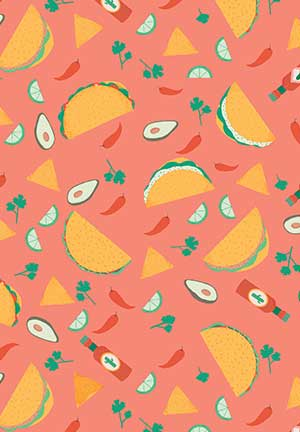
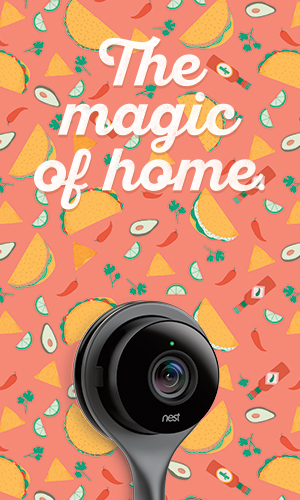
replaced 300x250 with master

diff --git a/300x250/Animation.js b/300x250/Animation.js
@@ -54,23 +54,24 @@ home_animation = (function() {
 		
 	function frame1()
 	{
-		TweenLite.to(first_text, 2.8, {top:-300, delay: 2.2});
-		TweenLite.to(product_text, 2.8, {top:0, delay:2.2});		
-		TweenLite.to(bg, 2.8, {top:-160, delay:2.2});		
+		///TweenLite.to(first_text, 2.8, {top:-300, delay: 2.2});
+		//TweenLite.to(product_text, 2.8, {top:-24, delay:2.2});		
+		TweenLite.to(bg, 1, {top:-252, delay:2.2});		
 
-		TweenLite.delayedCall(3, frame2);
+		TweenLite.delayedCall(1.3, frame2);
 	}
 	
 	function frame2()
 	{
 		// slide up white bg
-		TweenLite.to(white_BG, 1, {top:200, delay:3.2});
-		TweenLite.to(product_text, 1, {top:-33, delay:3.2});		
+		TweenLite.to(bg, 1.3, {top:-283, delay:3.2});	
+		TweenLite.to(white_BG, 1.2, {top:200, delay:3.2});
+	//	TweenLite.to(product_text, 1, {top:-33, delay:3.2});		
 		
-		TweenLite.to(second_text, 1, {opacity:1, delay:4.1});		
-		TweenLite.to(third_text, 1, {opacity:1, delay:4.5});	
+		TweenLite.to(second_text, 3, {opacity:1, delay:4.4, ease: Expo.easeOut});		
+		TweenLite.to(third_text, 3, {opacity:1, delay:6, ease: Expo.easeOut});	
 
-		TweenLite.delayedCall(8, frame3);	
+		TweenLite.delayedCall(8.5, frame3);	
 
 	}
 	
@@ -79,15 +80,15 @@ home_animation = (function() {
 		TweenLite.to(second_text, 0.5, {opacity:0, delay:0});		
 		TweenLite.to(third_text, 0.5, {opacity:0, delay:0});	
 
-		TweenLite.delayedCall(1, frame4);
+		TweenLite.delayedCall(0.8, frame4);
 
 	}
 	
 	function frame4()
 	{
 		endFrame = 1;
-		TweenLite.to(buy_now, 0.5, {opacity:1, delay:0});		
-		TweenLite.to(logo, 0.5, {opacity:1, delay:.2});
+		TweenLite.to(buy_now, 3, {opacity:1, delay:1.2});		
+		TweenLite.to(logo, 3, {opacity:1, delay:0});
 		
 
 	}

diff --git a/300x600/Animation.js b/300x600/Animation.js
@@ -54,33 +54,29 @@ home_animation = (function() {
 		
 	function frame1()
 	{
-		TweenLite.to(first_text, 2.8, {top:-300, delay: 2.2});
-		TweenLite.to(product_text, 2.8, {top:0, delay:2.2});		
+		TweenLite.to(first_text, 2.8, {top:-160, delay: 2.2});
+		TweenLite.to(first_text, 1, {opacity:0, delay: 2.9});
+		TweenLite.to(product_text, 2.8, {top:10, delay:2.2});		
 		TweenLite.to(bg, 2.8, {top:-160, delay:2.2});		
-
+		// slide up white bg
+		TweenLite.to(white_BG, 2.7, {top:432, delay:2.2});
 		TweenLite.delayedCall(3, frame2);
 	}
 	
 	function frame2()
-	{
-		// slide up white bg
-		TweenLite.to(white_BG, 1, {top:432, delay:3.2});
-		TweenLite.to(product_text, 1, {top:-33, delay:3.2});		
-		
-		TweenLite.to(second_text, 1, {opacity:1, delay:4.1});		
-		TweenLite.to(third_text, 1, {opacity:1, delay:4.5});	
-
-		TweenLite.delayedCall(8, frame3);	
+	{	
+		TweenLite.to(logo, 0.5, {opacity:1, delay:1.7});
+		// TweenLite.to(product_text, 1, {top:-33, delay:3.2});
+		TweenLite.to(second_text, 3, {opacity:1, delay:2.1});
+		TweenLite.to(third_text, 3, {opacity:1, delay:3.1});
+		TweenLite.delayedCall(6, frame3);	
 
 	}
 	
 	function frame3()
 	{
 		endFrame = 1;
-		TweenLite.to(buy_now, 0.5, {opacity:1, delay:0});		
-		TweenLite.to(logo, 0.5, {opacity:1, delay:.2});
-		
-
+		TweenLite.to(buy_now, 0.5, {opacity:1, delay:0});
 	}
 
 

diff --git a/300x250/style.css b/300x250/style.css
@@ -21,7 +21,7 @@ body{
 	top:0px;
 	background-image: url("background.jpg");
 	width:300px;
-	height:432px;
+	height:500px;
 	z-index: -4;
 }
 
@@ -49,6 +49,7 @@ left:0px;
 top:0px;
 opacity: 1;
 z-index:0;
+display: none;
 }
 
 #product_text {
@@ -56,6 +57,7 @@ position: absolute;
 left:0px;
 top:300px;
 z-index:-1;
+display: none;
 }
 
 #second_text, #third_text, #buy_now, #logo {

diff --git a/300x250/300x250.html b/300x250/300x250.html
@@ -12,8 +12,6 @@
 <div id="container">
 
 <!-- Frame one --> 
-<div id="first_text"><img src="first_text.png"></div>
-<div id="product_text"><img src="product.png"></div>
 <div id="second_text"><img src="second_text.png"></div>
 <div id="third_text"><img src="third_text.png"></div>
 <div id="buy_now_over"><img src="buy_now_over.png"></div>

diff --git a/300x600/style.css b/300x600/style.css
@@ -54,7 +54,7 @@ z-index:0;
 #product_text {
 position: absolute;
 left:0px;
-top:160px;
+top:180px;
 z-index:-1;
 }
 
